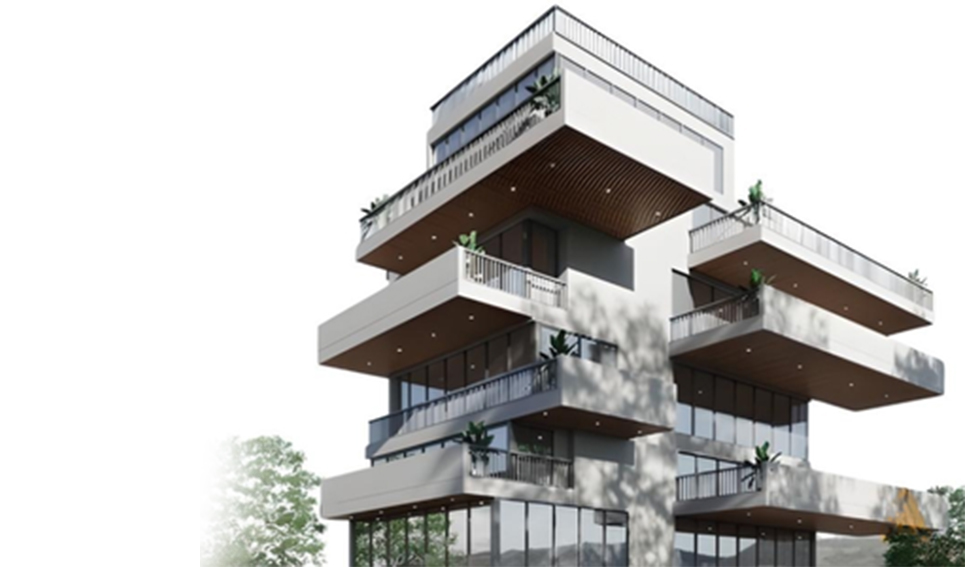
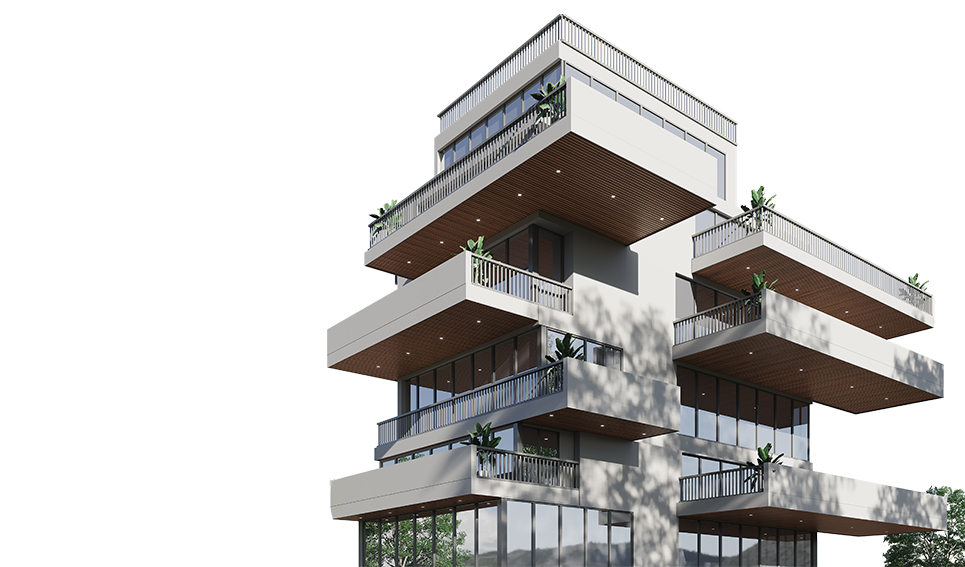
image postion update

Changed region(s): [[0.1865, 0.0, 1.0, 1.0], [0.8705, 0.7196, 0.9016, 0.7496], [0.342, 0.5397, 0.3731, 0.5697]]

diff --git a/components/home/Hero.jsx b/components/home/Hero.jsx
@@ -142,7 +142,7 @@ const HeroLg = () => {
                 src={el.imageLg}
                 width={1000}
                 height={100}
-                className="ml-auto !h-[450px] !w-[65vw] object-cover object-bottom lg:!h-[430px] xl:!h-[580px] 2xl:!h-[800px] 2xl:!w-[70vw]"
+                className="ml-auto !h-[450px] !w-[76vw] object-cover object-bottom lg:!h-[430px] xl:!h-[580px] 2xl:!h-[800px] 2xl:!w-[70vw]"
                 alt="bg-hero"
                 key={el.imageLg}
               />
